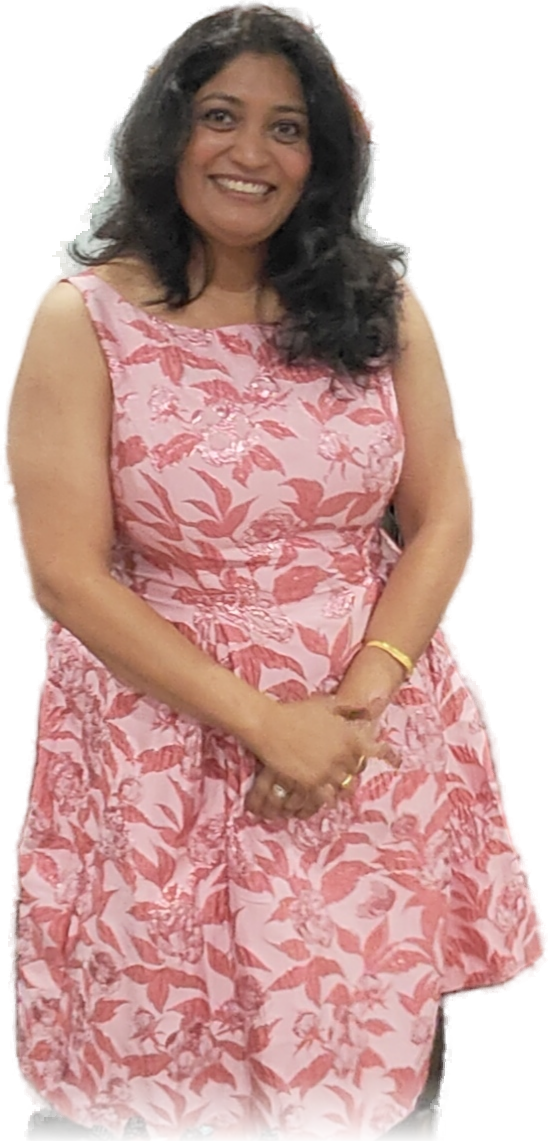
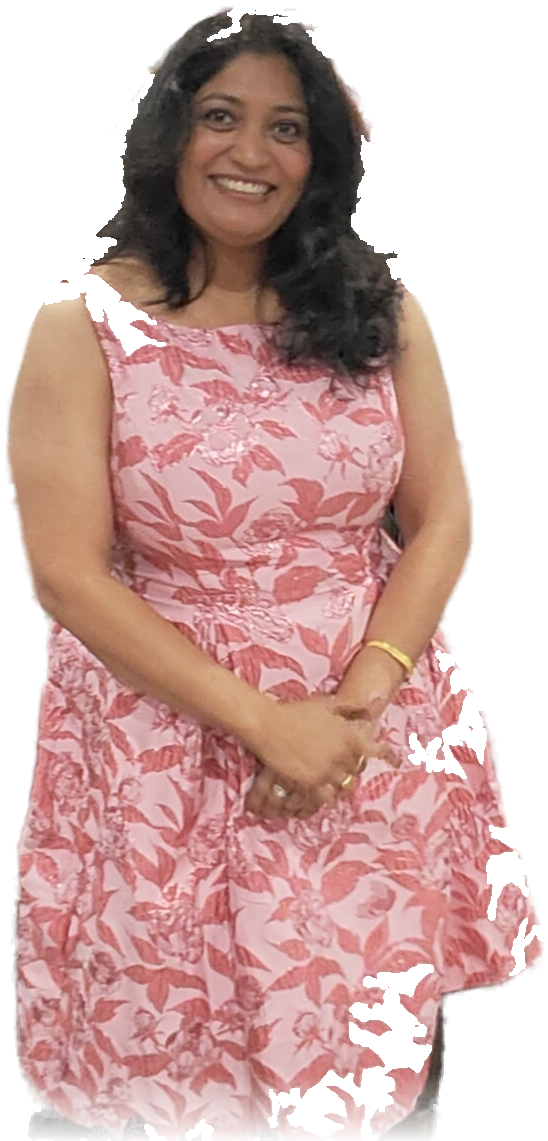
Poster: revert to the real-photo figure; remove the failed head-swap and dress-recolour variants

diff --git a/docs/poster/poster.html b/docs/poster/poster.html
@@ -192,7 +192,7 @@
   const q = new URLSearchParams(location.search)
   const fig = q.get('figure') || 'real'
   const img = document.getElementById('figure')
-  const sizes = { solo: '750px', full: '800px', family: '800px', real: '820px', 'real-lavender': '820px' }
+  const sizes = { solo: '750px', full: '800px', family: '800px', real: '820px' }
   img.src = `assets/figure-${fig}.png`
   img.style.height = sizes[fig] || sizes.solo
   if (fig.startsWith('real')) {
